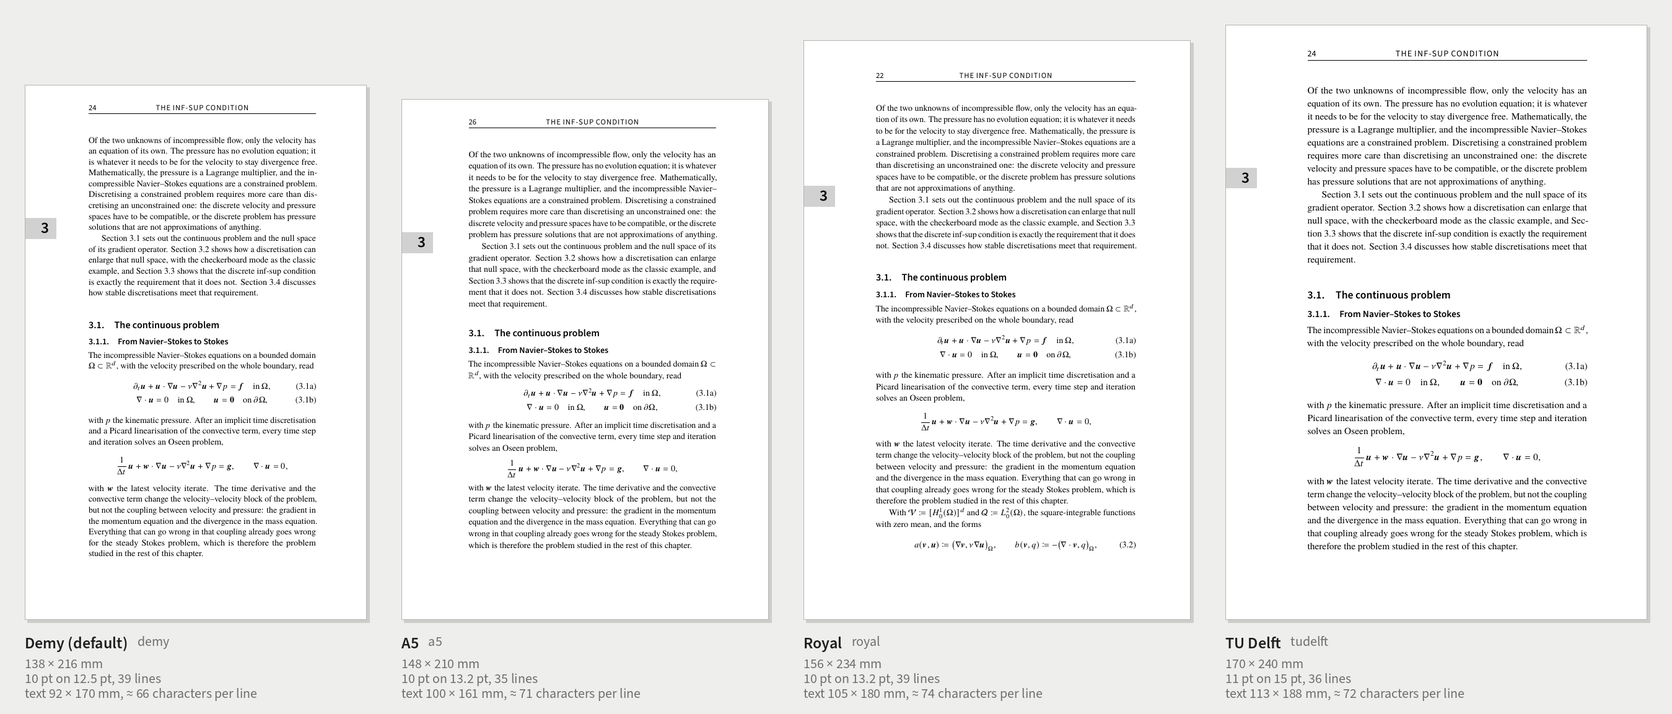
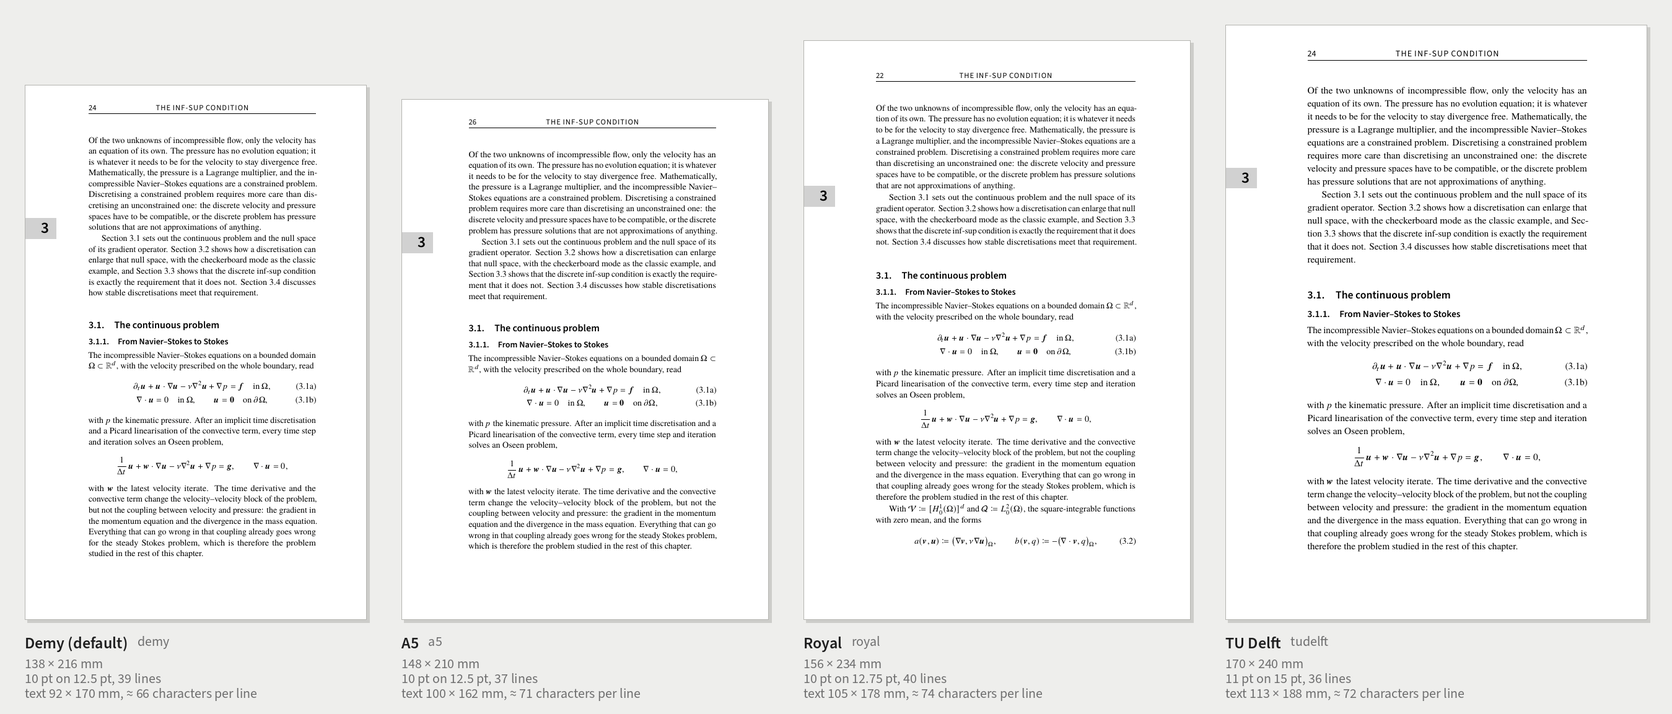
Maths commands: derivative package, growing brackets, sets, operators; A5 and Royal leading
- Derivatives from the derivative package: \odv, \pdv, \mdv (ordinary,
  partial, material), orders and mixed orders, differentials \odif,
  \pdif, \mdif. The compact forms are renamed to match: \codv, \cpdv,
  \cmdv. \deriv, \pderiv, \sderiv, \diff, \pdiff, \sdiff, \cderiv,
  \cpderiv, \csderiv are removed.
- Brackets that grow with their contents (size argument or star, like
  \inner): \norm, \abs, \floor, \ceil, \jump, \avg, \dual, \set,
  \Set{x}{condition}, \restrict{f}{A}.
- \R, \C, \N, \Z; upright \e and \i (\i stays the dotless i in text);
  operators \tr, \diag, \rank, \sgn, \Real, \Imag, \E, \Var, \Cov.
- Example chapters, appendix and the Notation list use the new
  commands; README lists them.
- A5 now 10 on 12.5 pt (37 lines), Royal 10 on 12.75 pt (40 lines);
  page-size image made again, leading shown to the quarter point.

PDF/A-4f and PDF/UA-2 pass (default, digital, MathTime, propositions);
no overfull or underfull boxes.

Claude-Session: https://claude.ai/code/session_01QWSGpSp3w7PDQHFQq44TEs

diff --git a/Chapters/03InfSup.tex b/Chapters/03InfSup.tex
@@ -30,10 +30,10 @@ Of the two unknowns of incompressible flow, only the velocity has an equation of
 
 \subsection{From Navier--Stokes to Stokes}
 
-The incompressible Navier--Stokes equations on a bounded domain $\Omega \subset \mathbb{R}^d$, with the velocity prescribed on the whole boundary, read
+The incompressible Navier--Stokes equations on a bounded domain $\Omega \subset \R^d$, with the velocity prescribed on the whole boundary, read
 \begin{subequations}\label{eq:infsup-ns}
 \begin{gather}
-    \cpderiv{\vec{u}}{t} + \vec{u} \cdot \grad\vec{u} - \nu \nabla^2 \vec{u} + \grad p = \vec{f}
+    \cpdv{\vec{u}}{t} + \vec{u} \cdot \grad\vec{u} - \nu \nabla^2 \vec{u} + \grad p = \vec{f}
     \quad \text{in } \Omega , \label{eq:infsup-ns-momentum} \\
     \div\vec{u} = 0 \quad \text{in } \Omega , \qquad \vec{u} = \vec{0} \quad \text{on } \partial\Omega , \label{eq:infsup-ns-mass}
 \end{gather}
@@ -66,7 +66,7 @@ Find $\vec{u} \in \mathcal{V}$ and $p \in \mathcal{Q}$ such that
 
 The form $b$ defines two operators that are each other's adjoints: the divergence $B \colon \mathcal{V} \to \mathcal{Q}'$ and the gradient $B' \colon \mathcal{Q} \to \mathcal{V}'$, through
 \begin{equation*}
-    \langle B\vec{v}, q \rangle = b(\vec{v}, q) = \langle B' q, \vec{v} \rangle
+    \dual{B\vec{v}}{q} = b(\vec{v}, q) = \dual{B' q}{\vec{v}}
     \qquad \forall\, \vec{v} \in \mathcal{V} ,\ q \in \mathcal{Q} .
 \end{equation*}
 The null space of $B$ is the space of divergence-free velocities, where the solution lives. The null space of $B'$ contains the pressures that \cref{eq:infsup-stokes-momentum} cannot see: adding such a pressure to a solution gives another solution. On $L^2(\Omega)$, these are the pressures with a vanishing gradient,
@@ -81,11 +81,11 @@ Injectivity alone is not enough in infinite dimensions; the gradient also has to
 There is a constant $\beta > 0$, depending only on $\Omega$, such that
 \begin{equation}\label{eq:infsup-continuous}
     \inf_{q \in \mathcal{Q} \setminus \{0\}} \ \sup_{\vec{v} \in \mathcal{V} \setminus \{\vec{0}\}}
-    \frac{b(\vec{v}, q)}{\lVert \grad\vec{v} \rVert_\Omega \, \lVert q \rVert_\Omega} \geq \beta .
+    \frac{b(\vec{v}, q)}{\norm{\grad\vec{v}}_\Omega \, \norm{q}_\Omega} \geq \beta .
 \end{equation}
 \end{theorem}
 
-Equivalently, the divergence maps $\mathcal{V}$ onto $L^2_0(\Omega)$: every zero-mean function is the divergence of a velocity field that vanishes on the boundary, with a bounded norm. Together with the coercivity of $a$, $a(\vec{v}, \vec{v}) = \nu \lVert \grad\vec{v} \rVert_\Omega^2$, \cref{eq:infsup-continuous} gives existence, uniqueness and stability of the solution of \cref{form:infsup-stokes}: this is the theory of saddle-point problems of \textcite{Babuska1973} and \textcite{Brezzi1974}, set out in full by \textcite{Boffi2013}.
+Equivalently, the divergence maps $\mathcal{V}$ onto $L^2_0(\Omega)$: every zero-mean function is the divergence of a velocity field that vanishes on the boundary, with a bounded norm. Together with the coercivity of $a$, $a(\vec{v}, \vec{v}) = \nu \norm{\grad\vec{v}}_\Omega^2$, \cref{eq:infsup-continuous} gives existence, uniqueness and stability of the solution of \cref{form:infsup-stokes}: this is the theory of saddle-point problems of \textcite{Babuska1973} and \textcite{Brezzi1974}, set out in full by \textcite{Boffi2013}.
 
 %% =====================================================================
 \section{Discretisation enlarges the null space}\label{sec:infsup-discrete}
@@ -115,7 +115,7 @@ $\{ \text{constants} \} \cap \mathcal{Q}^h \subseteq \mathcal{N}^h$.
 If $q^h \in \mathcal{Q}^h$ is constant, then $b(\vec{v}, q^h) = 0$ for all $\vec{v} \in \mathcal{V}$, by \cref{eq:infsup-kernel-continuous}, and in particular for all $\vec{v}^h \in \mathcal{V}^h \subset \mathcal{V}$.
 \end{proof}
 
-The inclusion is in general strict. A pressure $q^\ast \in \mathcal{N}^h$ that is not constant is a \emph{spurious pressure mode}: it is not in the null space of the continuous gradient, but the discrete gradient maps it to zero. If $(\vec{u}^h, p^h)$ solves the discrete problem, so does $(\vec{u}^h, p^h + c\, q^\ast)$ for every $c \in \mathbb{R}$. The matrix in \cref{eq:infsup-matrix} is singular, the pressure is not determined, and an iterative solver returns a pressure polluted by an arbitrary multiple of $q^\ast$. The velocity is not affected, as $q^\ast$ does not enter the momentum equation, which is why such discretisations produce, in the words of \textcite{Sani1981}, spurious pressures together with ostensibly acceptable velocities.
+The inclusion is in general strict. A pressure $q^\ast \in \mathcal{N}^h$ that is not constant is a \emph{spurious pressure mode}: it is not in the null space of the continuous gradient, but the discrete gradient maps it to zero. If $(\vec{u}^h, p^h)$ solves the discrete problem, so does $(\vec{u}^h, p^h + c\, q^\ast)$ for every $c \in \R$. The matrix in \cref{eq:infsup-matrix} is singular, the pressure is not determined, and an iterative solver returns a pressure polluted by an arbitrary multiple of $q^\ast$. The velocity is not affected, as $q^\ast$ does not enter the momentum equation, which is why such discretisations produce, in the words of \textcite{Sani1981}, spurious pressures together with ostensibly acceptable velocities.
 
 \subsection{The checkerboard mode}\label{sec:infsup-checkerboard}
 
@@ -166,7 +166,7 @@ The discrete counterpart of \cref{eq:infsup-continuous} is
 \begin{equation}\label{eq:infsup-discrete}
     \beta_h \coloneqq
     \inf_{q^h \in \mathcal{Q}^h_0 \setminus \{0\}} \ \sup_{\vec{v}^h \in \mathcal{V}^h \setminus \{\vec{0}\}}
-    \frac{b(\vec{v}^h, q^h)}{\lVert \grad\vec{v}^h \rVert_\Omega \, \lVert q^h \rVert_\Omega} ,
+    \frac{b(\vec{v}^h, q^h)}{\norm{\grad\vec{v}^h}_\Omega \, \norm{q^h}_\Omega} ,
 \end{equation}
 with $\mathcal{Q}^h_0 \coloneqq \mathcal{Q}^h \cap L^2_0(\Omega)$: the discrete pressures with the continuous null space removed, exactly as $\mathcal{Q} = L^2_0(\Omega)$ removes it from the continuous problem.
 
@@ -183,9 +183,9 @@ On a fixed mesh, then, the inf-sup condition says no more than that the discreti
 For a sequence of meshes the requirement is stronger, because $\beta_h$ enters the error estimate. If $\beta_h \geq \beta_0 > 0$ for all $h$, the discrete solution is quasi-optimal,
 \begin{equation}\label{eq:infsup-error}
 \begin{split}
-    \lVert \grad(\vec{u} - \vec{u}^h) \rVert_\Omega &+ \lVert p - p^h \rVert_\Omega \\
-    &\leq C(\beta_0) \Bigl( \inf_{\vec{v}^h \in \mathcal{V}^h} \lVert \grad(\vec{u} - \vec{v}^h) \rVert_\Omega \\
-    &\qquad\qquad + \inf_{q^h \in \mathcal{Q}^h_0} \lVert p - q^h \rVert_\Omega \Bigr) ,
+    \norm{\grad(\vec{u} - \vec{u}^h)}_\Omega &+ \norm{p - p^h}_\Omega \\
+    &\leq C(\beta_0) \Bigl( \inf_{\vec{v}^h \in \mathcal{V}^h} \norm{\grad(\vec{u} - \vec{v}^h)}_\Omega \\
+    &\qquad\qquad + \inf_{q^h \in \mathcal{Q}^h_0} \norm{p - q^h}_\Omega \Bigr) ,
 \end{split}
 \end{equation}
 with a constant that grows as $\beta_0$ decreases \parencite{Brezzi1974,Boffi2013}. A discretisation whose null space is correct on every mesh but with $\beta_h \to 0$ has pressures that come ever closer to the null space: modes the velocity space can detect only faintly, which are amplified in the pressure solution. The $Q_1$--$P_0$ element is the standard example once more: with the checkerboard filtered out, $\beta_h > 0$ on every mesh, but $\beta_h$ decreases in proportion to $h$.
@@ -194,7 +194,7 @@ with a constant that grows as $\beta_0$ decreases \parencite{Brezzi1974,Boffi201
 The condition is therefore twofold. The discrete null space must coincide with the continuous one on every mesh, and it must do so robustly: no family of discrete pressures may approach the null space as the mesh is refined.
 \end{remark}
 
-In matrix form, with $\mathsf{A}_1$ the matrix of $\inner{\grad\vec{v}^h}{\grad\vec{u}^h}_\Omega$ and $\mathsf{M}$ the pressure mass matrix, the supremum over the velocities can be evaluated, $\sup_{\mathsf{v}} \mathsf{q}\transpose\mathsf{B}\mathsf{v} / \lVert \mathsf{v} \rVert_{\mathsf{A}_1} = \lVert \mathsf{A}_1^{-1/2} \mathsf{B}\transpose \mathsf{q} \rVert$. So $\beta_h^2$ is the smallest eigenvalue $\lambda$ of the generalised eigenvalue problem
+In matrix form, with $\mathsf{A}_1$ the matrix of $\inner{\grad\vec{v}^h}{\grad\vec{u}^h}_\Omega$ and $\mathsf{M}$ the pressure mass matrix, the supremum over the velocities can be evaluated, $\sup_{\mathsf{v}} \mathsf{q}\transpose\mathsf{B}\mathsf{v} / \norm{\mathsf{v}}_{\mathsf{A}_1} = \norm{\mathsf{A}_1^{-1/2} \mathsf{B}\transpose \mathsf{q}}$. So $\beta_h^2$ is the smallest eigenvalue $\lambda$ of the generalised eigenvalue problem
 \begin{equation}\label{eq:infsup-eigen}
     \mathsf{B} \mathsf{A}_1^{-1} \mathsf{B}\transpose \mathsf{q} = \lambda\, \mathsf{M} \mathsf{q}
 \end{equation}
@@ -227,7 +227,7 @@ The practical tool for proving \cref{eq:infsup-discrete} uniformly is a Fortin o
 \begin{theorem}[Fortin criterion]\label{thm:infsup-fortin}
 Let $\Pi_h \colon \mathcal{V} \to \mathcal{V}^h$ be an operator such that, for all $\vec{v} \in \mathcal{V}$ and $q^h \in \mathcal{Q}^h$,
 \[
-    b(\vec{v} - \Pi_h\vec{v}, q^h) = 0, \qquad \lVert \grad \Pi_h\vec{v} \rVert_\Omega \leq C_\Pi \lVert \grad\vec{v} \rVert_\Omega,
+    b(\vec{v} - \Pi_h\vec{v}, q^h) = 0, \qquad \norm{\grad \Pi_h\vec{v}}_\Omega \leq C_\Pi \norm{\grad\vec{v}}_\Omega,
 \]
 with $C_\Pi$ independent of $h$. Then $\beta_h \geq \beta / C_\Pi$.
 \end{theorem}
@@ -235,13 +235,13 @@ with $C_\Pi$ independent of $h$. Then $\beta_h \geq \beta / C_\Pi$.
 \begin{proof}
 Let $q^h \in \mathcal{Q}^h_0 \subset \mathcal{Q}$. For every $\vec{v} \in \mathcal{V}$ with $b(\vec{v}, q^h) > 0$, also $\Pi_h\vec{v} \neq \vec{0}$, and
 \begin{equation*}
-    \frac{b(\Pi_h\vec{v}, q^h)}{\lVert \grad \Pi_h\vec{v} \rVert_\Omega}
-    \geq \frac{b(\vec{v}, q^h)}{C_\Pi \lVert \grad\vec{v} \rVert_\Omega} ;
+    \frac{b(\Pi_h\vec{v}, q^h)}{\norm{\grad \Pi_h\vec{v}}_\Omega}
+    \geq \frac{b(\vec{v}, q^h)}{C_\Pi \norm{\grad\vec{v}}_\Omega} ;
 \end{equation*}
 the other velocities do not contribute to the supremum in \cref{eq:infsup-continuous}. Taking the supremum over $\vec{v}$ and using \cref{eq:infsup-continuous} gives
 \begin{equation*}
-    \sup_{\vec{v}^h \in \mathcal{V}^h \setminus \{\vec{0}\}} \frac{b(\vec{v}^h, q^h)}{\lVert \grad\vec{v}^h \rVert_\Omega}
-    \geq \frac{\beta}{C_\Pi} \lVert q^h \rVert_\Omega . \qedhere
+    \sup_{\vec{v}^h \in \mathcal{V}^h \setminus \{\vec{0}\}} \frac{b(\vec{v}^h, q^h)}{\norm{\grad\vec{v}^h}_\Omega}
+    \geq \frac{\beta}{C_\Pi} \norm{q^h}_\Omega . \qedhere
 \end{equation*}
 \end{proof}
 
@@ -273,7 +273,7 @@ A Fortin operator is easiest to find when the discretisation is built so that th
     b(\vec{v} - \Pi_h\vec{v}, q^h) = -\inner[\big]{\div\vec{v} - \pi_h \div\vec{v}}{q^h}_\Omega = 0
     \qquad \forall\, q^h \in \mathcal{Q}^h ,
 \end{equation*}
-by the definition of the $L^2$ projection, so a bounded commuting projection is a Fortin operator. The discrete divergence then inherits the range of the continuous one, and the discrete gradient its null space: nothing beyond the constants. This is the structure of the de Rham complex, which finite element exterior calculus \parencite{Arnold2006} and mimetic methods carry over to the discrete level. It brings a second benefit: as $\div\vec{u}^h \in \mathcal{Q}^h$, choosing $q^h = \div\vec{u}^h$ in the discrete mass equation gives $\lVert \div\vec{u}^h \rVert_\Omega = 0$, a velocity that is divergence free pointwise, not only in a weak sense. The mixed mimetic spectral element method of \textcite{Kreeft2013} obtains this for Stokes flow in a vorticity--velocity--pressure formulation, whose three unknowns fit the spaces of the complex directly.
+by the definition of the $L^2$ projection, so a bounded commuting projection is a Fortin operator. The discrete divergence then inherits the range of the continuous one, and the discrete gradient its null space: nothing beyond the constants. This is the structure of the de Rham complex, which finite element exterior calculus \parencite{Arnold2006} and mimetic methods carry over to the discrete level. It brings a second benefit: as $\div\vec{u}^h \in \mathcal{Q}^h$, choosing $q^h = \div\vec{u}^h$ in the discrete mass equation gives $\norm{\div\vec{u}^h}_\Omega = 0$, a velocity that is divergence free pointwise, not only in a weak sense. The mixed mimetic spectral element method of \textcite{Kreeft2013} obtains this for Stokes flow in a vorticity--velocity--pressure formulation, whose three unknowns fit the spaces of the complex directly.
 
 \subsection{Stabilisation}
 

diff --git a/Chapters/02Examples.tex b/Chapters/02Examples.tex
@@ -70,24 +70,25 @@ Citations use numbered references~\cite{Allen2002}, several at once~\cite{Sinnig
 Inline maths such as $\Re = \rho U L / \mu$ uses the same Times letters as the text. Vectors and tensors are set in bold, as in the velocity $\vec{u}$ and the stress tensor $\tensor{\tau}$; writing them with \verb|\vec| and \verb|\tensor| lets you change that notation everywhere with a single change. For an incompressible flow, mass and momentum conservation read
 \begin{align}
     \div \vec{u} &= 0, \label{eq:continuity} \\
-    \sderiv{\vec{u}}{t} &= -\frac{1}{\rho} \grad p + \nu \nabla^2 \vec{u}, \label{eq:navier-stokes}
+    \mdv{\vec{u}}{t} &= -\frac{1}{\rho} \grad p + \nu \nabla^2 \vec{u}, \label{eq:navier-stokes}
 \end{align}
 where the material derivative is
 \begin{equation}
-    \sderiv{\vec{u}}{t} = \pderiv{\vec{u}}{t} + \left( \vec{u} \cdot \grad \right) \vec{u}.
+    \mdv{\vec{u}}{t} = \pdv{\vec{u}}{t} + \left( \vec{u} \cdot \grad \right) \vec{u}.
 \end{equation}
 
 A derivation over several lines numbers only its result:
 \begin{align}
-    \oint_{\Gamma} \vec{u} \cdot \diff{\vec{l}}
-        &= \iint_{S} \left( \curl \vec{u} \right) \cdot \vec{n} \, \diff{S} \notag \\
-        &= \iint_{S} \vec{\omega} \cdot \vec{n} \, \diff{S}. \label{eq:circulation}
+    \oint_{\Gamma} \vec{u} \cdot \odif{\vec{l}}
+        &= \iint_{S} \left( \curl \vec{u} \right) \cdot \vec{n} \odif{S} \notag \\
+        &= \iint_{S} \vec{\omega} \cdot \vec{n} \odif{S}. \label{eq:circulation}
 \end{align}
 
-Derivatives of any order, and their compact forms:
-\begin{equation*}
-    \deriv{y}{x}, \quad \deriv[2]{y}{x}, \quad \pderiv[2]{\phi}{x}, \quad \cpderiv{\phi}{x}, \quad \vec{A}\transpose \vec{B}, \quad \tensor{\sigma} \cddot \tensor{\varepsilon}.
-\end{equation*}
+Derivatives of any order, mixed and compact, and brackets that grow with their contents (\verb|\norm*|, \verb|\abs*|, \verb|\Set*|; or a fixed size, \verb|\norm[\big]|):
+\begin{gather*}
+    \odv{y}{x}, \quad \odv[2]{y}{x}, \quad \pdv[order={2,1}]{\phi}{x,y}, \quad \cpdv{\phi}{x}, \quad \vec{A}\transpose \vec{B}, \quad \tensor{\sigma} \cddot \tensor{\varepsilon}, \\
+    \norm*{\frac{\vec{u}}{U}}_2, \quad \abs{z} = \abs{\e^{\i\omega t}} = 1, \quad \Set*{\vec{x} \in \R^3}{\norm{\vec{x}} \leq \frac{1}{2}}, \quad \tr \tensor{\tau} = 0.
+\end{gather*}
 
 Piecewise definitions, matrices and operators:
 \begin{gather}
@@ -101,7 +102,7 @@ Piecewise definitions, matrices and operators:
         \cos\theta & -\sin\theta \\
         \sin\theta & \cos\theta
     \end{bmatrix}, \\
-    \hat{\vec{x}} = \argmin_{\vec{x}} \, \lVert \tensor{A} \vec{x} - \vec{b} \rVert_2^2 .
+    \hat{\vec{x}} = \argmin_{\vec{x}} \, \norm{\tensor{A} \vec{x} - \vec{b}}_2^2 .
 \end{gather}
 Dimensionless numbers are upright: $\Re$, $\Ma$, $\Pr$, $\St$ and $\Fr$.
 
@@ -144,8 +145,8 @@ Braces can mark parts of a matrix, and matrices can be given the same column wid
 
 On a narrow page, an equation that would fit on A4 often does not. Break it at an operator, and say where it continues. A single long expression is set with \texttt{multline}: the first line starts at the left, the last line ends at the right.
 \begin{multline}
-    \rho \left( \pderiv{u}{t} + u \pderiv{u}{x} + v \pderiv{u}{y} + w \pderiv{u}{z} \right) \\
-    = -\pderiv{p}{x} + \mu \left( \pderiv[2]{u}{x} + \pderiv[2]{u}{y} + \pderiv[2]{u}{z} \right) + \rho g_x
+    \rho \left( \pdv{u}{t} + u \pdv{u}{x} + v \pdv{u}{y} + w \pdv{u}{z} \right) \\
+    = -\pdv{p}{x} + \mu \left( \pdv[2]{u}{x} + \pdv[2]{u}{y} + \pdv[2]{u}{z} \right) + \rho g_x
     \label{eq:x-momentum}
 \end{multline}
 When the continuation should line up with an equals sign, \texttt{split} inside an equation gives one number for the whole:
@@ -158,13 +159,13 @@ When the continuation should line up with an equals sign, \texttt{split} inside 
 \end{equation}
 Break before an operator ($+$, $-$, $=$), not after it, so the new line shows at once that it continues the previous one.
 
-A weak form, as in a finite element method, consists of many inner products. Write them compactly: $\inner{\cdot}{\cdot}_D$ for the $L^2$ inner product over a domain $D$, with the domain as subscript, and time derivatives as $\cpderiv{\vec{u}^h}{t}$ rather than a fraction. Give the parts of the boundary short names, so the subscripts stay one level deep. A \texttt{formulation} environment sets the statement apart, as in \cref{form:burgers}; \texttt{subequations} numbers its equations (\ref{eq:fem-momentum})--(\ref{eq:fem-wall}) and lets the set be referred to as a whole, \cref{eq:fem}.
+A weak form, as in a finite element method, consists of many inner products. Write them compactly: $\inner{\cdot}{\cdot}_D$ for the $L^2$ inner product over a domain $D$, with the domain as subscript, and time derivatives as $\cpdv{\vec{u}^h}{t}$ rather than a fraction. Give the parts of the boundary short names, so the subscripts stay one level deep. A \texttt{formulation} environment sets the statement apart, as in \cref{form:burgers}; \texttt{subequations} numbers its equations (\ref{eq:fem-momentum})--(\ref{eq:fem-wall}) and lets the set be referred to as a whole, \cref{eq:fem}.
 
 \begin{formulation}[Weak form of the viscous Burgers equation]\label{form:burgers}
 Let the boundary consist of an inflow part and a wall, $\partial\Omega = \Gamma_\mathrm{in} \cup \Gamma_\mathrm{wall}$. Find $\vec{u}^h \in \mathcal{V}^h(\Omega)$ for $0 < t \leq T$, given an initial condition $\vec{u}_0$, such that for all $\vec{v} \in \mathcal{W}^h(\Omega)$, $\vec{\sigma} \in \mathcal{W}^h(\Gamma_\mathrm{in})$ and $\vec{\zeta} \in \mathcal{W}^h(\Gamma_\mathrm{wall})$:
 \begin{subequations}\label{eq:fem}
 \begin{gather}
-    \inner[\big]{\vec{v}}{\cpderiv{\vec{u}^h}{t}}_\Omega
+    \inner[\big]{\vec{v}}{\cpdv{\vec{u}^h}{t}}_\Omega
     + \inner[\big]{\vec{v}}{\vec{u}^h \cdot \grad\vec{u}^h}_\Omega
     + \inner[\big]{\grad\vec{v}}{\nu \grad\vec{u}^h}_\Omega
     = \inner[\big]{\vec{v}}{\vec{f}}_\Omega ,                                 \label{eq:fem-momentum} \\
@@ -186,7 +187,7 @@ When the same terms come back in later chapters, name them once, keeping the tes
 \end{equation*}
 so that \cref{eq:fem-momentum} becomes
 \begin{equation*}
-    \inner[\big]{\vec{v}}{\cpderiv{\vec{u}^h}{t}}_\Omega + c(\vec{u}^h; \vec{v}, \vec{u}^h) + a(\vec{v}, \vec{u}^h) = \inner[\big]{\vec{v}}{\vec{f}}_\Omega .
+    \inner[\big]{\vec{v}}{\cpdv{\vec{u}^h}{t}}_\Omega + c(\vec{u}^h; \vec{v}, \vec{u}^h) + a(\vec{v}, \vec{u}^h) = \inner[\big]{\vec{v}}{\vec{f}}_\Omega .
 \end{equation*}
 The diffusive form $a$ is bilinear; the convective form $c$ is linear in $\vec{v}$ and $\vec{u}$ but depends on the velocity $\vec{w}$ as well, which is why it is written with a semicolon.
 
@@ -195,22 +196,22 @@ The diffusive form $a$ is bilinear; the convective form $c$ is linear in $\vec{v
 Definitions, lemmas, theorems and corollaries share one counter, so \cref{def:energy-norm} is followed by \cref{lem:coercivity}; a remark is unnumbered. All are set upright, which reads better than the usual italics when a statement is mostly maths.
 
 \begin{definition}[Energy norm]\label{def:energy-norm}
-For $\nu > 0$, the energy norm on $\mathcal{W}^h(\Omega)$ is $\lVert \vec{v} \rVert_a \coloneqq a(\vec{v}, \vec{v})^{1/2}$.
+For $\nu > 0$, the energy norm on $\mathcal{W}^h(\Omega)$ is $\norm{\vec{v}}_a \coloneqq a(\vec{v}, \vec{v})^{1/2}$.
 \end{definition}
 
 \begin{lemma}[Coercivity]\label{lem:coercivity}
-For constant $\nu > 0$ and all $\vec{v} \in \mathcal{W}^h(\Omega)$, the form is non-negative: $a(\vec{v}, \vec{v}) = \nu \lVert \grad\vec{v} \rVert_\Omega^2 \geq 0$.
+For constant $\nu > 0$ and all $\vec{v} \in \mathcal{W}^h(\Omega)$, the form is non-negative: $a(\vec{v}, \vec{v}) = \nu \norm{\grad\vec{v}}_\Omega^2 \geq 0$.
 \end{lemma}
 
 \begin{proof}
 With $\nu$ constant, it can be taken out of the inner product:
 \begin{equation*}
-    a(\vec{v}, \vec{v}) = \inner[\big]{\grad\vec{v}}{\nu \grad\vec{v}}_\Omega = \nu \inner[\big]{\grad\vec{v}}{\grad\vec{v}}_\Omega = \nu \lVert \grad\vec{v} \rVert_\Omega^2 \geq 0 . \qedhere
+    a(\vec{v}, \vec{v}) = \inner[\big]{\grad\vec{v}}{\nu \grad\vec{v}}_\Omega = \nu \inner[\big]{\grad\vec{v}}{\grad\vec{v}}_\Omega = \nu \norm{\grad\vec{v}}_\Omega^2 \geq 0 . \qedhere
 \end{equation*}
 \end{proof}
 
 \begin{remark}
-For $\vec{v} = \vec{0}$ on the boundary, $c(\vec{w}; \vec{v}, \vec{v}) = -\tfrac{1}{2} \inner{\grad\cdot\vec{w}}{\lvert\vec{v}\rvert^2}_\Omega$, which vanishes only if $\vec{w}$ is divergence free. The velocity of the Burgers equation is not divergence free, so stability analyses use the skew-symmetric form
+For $\vec{v} = \vec{0}$ on the boundary, $c(\vec{w}; \vec{v}, \vec{v}) = -\tfrac{1}{2} \inner{\grad\cdot\vec{w}}{\abs{\vec{v}}^2}_\Omega$, which vanishes only if $\vec{w}$ is divergence free. The velocity of the Burgers equation is not divergence free, so stability analyses use the skew-symmetric form
 \begin{equation*}
     \tilde{c}(\vec{w}; \vec{v}, \vec{u}) \coloneqq c(\vec{w}; \vec{v}, \vec{u}) + \tfrac{1}{2} \inner[\big]{\vec{v}}{(\grad\cdot\vec{w})\, \vec{u}}_\Omega ,
 \end{equation*}
@@ -231,7 +232,7 @@ Algorithms are floats like figures, with the caption on top (\cref{alg:picard}).
         \Repeat
             \State assemble $\mathsf{A}(\vec{w})$ and $\mathsf{b}$ from $c(\vec{w}; \cdot, \cdot)$ and $a$
             \State solve $\mathsf{A}(\vec{w})\, \vec{u}^\ast = \mathsf{b}$ \label{alg:picard-solve}
-            \State $\delta \gets \lVert \vec{u}^\ast - \vec{w} \rVert_\Omega$
+            \State $\delta \gets \norm{\vec{u}^\ast - \vec{w}}_\Omega$
             \State $\vec{w} \gets \vec{u}^\ast$
         \Until{$\delta < \varepsilon$}
         \State \Return $\vec{u}^{n+1} \gets \vec{w}$
@@ -389,7 +390,7 @@ A convergence study is a table of errors against mesh size, with the observed or
     \label{tab:convergence}
     \begin{tabular}{@{}S[table-format=3.0] S[table-format=1.2e-1] S[table-format=1.2] S[table-format=1.2e-1] S[table-format=1.2]@{}}
         \toprule
-        {$N$} & {$\lVert \vec{e} \rVert_\Omega$} & {Order} & {$\lVert \grad\vec{e} \rVert_\Omega$} & {Order} \\
+        {$N$} & {$\norm{\vec{e}}_\Omega$} & {Order} & {$\norm{\grad\vec{e}}_\Omega$} & {Order} \\
         \midrule
           8   & 3.41e-3 & {--} & 1.08e-1 & {--} \\
          16   & 8.80e-4 & 1.96 & 5.46e-2 & 0.99 \\

diff --git a/_options/commands.tex b/_options/commands.tex
@@ -1,17 +1,16 @@
 %% Commands for writing: maths notation, lists, file names, chapter notes. Add your own here.
 
-\newcommand\diff[2][]{\mathrm{d}^{#1}{#2}}      % creates a nth-order ordinary differential variable
-\newcommand\pdiff[2][]{\partial^{#1}{#2}}       % creates a nth-order partial differential variable
-\newcommand\sdiff[2][]{\mathrm{D}^{#1}{#2}}     % creates a nth-order substantial differential variable
-\newcommand\deriv[3][]{\frac{\diff[#1]{#2}}{\diff{#3}^{#1}}}     % nth-order ordinary derivative
-\newcommand\pderiv[3][]{\frac{\pdiff[#1]{#2}}{\pdiff{#3}^{#1}}}  % nth-order partial derivative
-\newcommand\sderiv[3][]{\frac{\sdiff[#1]{#2}}{\sdiff{#3}^{#1}}}  % nth-order material derivative
-%% Compact derivatives: \cpderiv{u}{t} gives \partial_t u, \cpderiv[2]{u}{x} gives \partial^2_x u (scripts stacked).
+%% Derivatives and differentials with the derivative package (loaded in packages.tex), upright d and D:
+%%   \odv{y}{x}            dy/dx              \odv[order=2]{y}{x}     d^2y/dx^2 (also \odv[2]{y}{x})
+%%   \pdv{u}{t}            partial            \pdv[order={2,1}]{u}{x,y}  mixed: d^3u/dx^2 dy
+%%   \mdv{\vec{u}}{t}      material: Du/Dt    \odv*{}{x} f            the function after the fraction
+%%   \odif{x}  \pdif{x}  \mdif{x}             the differentials dx, partial x, Dx, as in an integral
+%% Compact derivatives, the template's own: \cpdv{u}{t} gives \partial_t u, \cpdv[2]{u}{x} \partial^2_x u.
 %% The scripts attach straight to the d or \partial, so the subscript sits close to it.
 \newcommand\ThesisCompactDeriv[4]{#1\if\relax\detokenize{#2}\relax\else^{#2}\fi_{#4}{#3}}
-\newcommand\cderiv[3][]{\ThesisCompactDeriv{\mathrm{d}}{#1}{#2}{#3}}   % compact ordinary derivative: d_x y
-\newcommand\cpderiv[3][]{\ThesisCompactDeriv{\partial}{#1}{#2}{#3}}  % compact partial derivative: \partial_t u
-\newcommand\csderiv[3][]{\ThesisCompactDeriv{\mathrm{D}}{#1}{#2}{#3}} % compact material derivative: D_t u
+\newcommand\codv[3][]{\ThesisCompactDeriv{\mathrm{d}}{#1}{#2}{#3}}   % compact ordinary derivative: d_x y
+\newcommand\cpdv[3][]{\ThesisCompactDeriv{\partial}{#1}{#2}{#3}}     % compact partial derivative: \partial_t u
+\newcommand\cmdv[3][]{\ThesisCompactDeriv{\mathrm{D}}{#1}{#2}{#3}}   % compact material derivative: D_t u
 
 \newcommand\transpose{^\textsf{T}}              % places in a transpose symbol
 
@@ -60,8 +59,46 @@
 %   \inner{\vec{v}}{\vec{u}}_\Omega            (v, u)_Omega, brackets at normal size (running text)
 %   \inner[\big]{\vec{v}}{\vec{u}}_\Omega      larger brackets: \big, \Big, \bigg, \Bigg (displays)
 %   \inner*{\vec{v}}{\frac{a}{b}}_\Omega       brackets sized to the contents
-% Write time derivatives inside it as \cpderiv{\vec{u}}{t} (gives \partial_t u): shorter than a fraction.
+% Write time derivatives inside it as \cpdv{\vec{u}}{t} (gives \partial_t u): shorter than a fraction.
 \DeclarePairedDelimiterX{\inner}[2]{(}{)}{#1, #2} % chktex 9 (Overleaf's checker misreads the ( and ) arguments)
+
+%% Brackets that grow with their contents, all used like \inner: \norm{x}, \norm[\big]{x}, \norm*{\frac{a}{b}}
+\DeclarePairedDelimiter{\norm}{\lVert}{\rVert}     % norm ||x||; with the space as subscript: \norm{\vec{u}}_{L^2}
+\DeclarePairedDelimiter{\abs}{\lvert}{\rvert}      % absolute value |x|
+\DeclarePairedDelimiter{\floor}{\lfloor}{\rfloor}  % floor
+\DeclarePairedDelimiter{\ceil}{\lceil}{\rceil}     % ceiling
+\DeclarePairedDelimiter{\jump}{\llbracket}{\rrbracket} % jump across a face [[u]] (discontinuous Galerkin)
+\DeclarePairedDelimiterX{\avg}[1]{\{}{\}}{\mkern-4mu\delimsize\{#1\delimsize\}\mkern-4mu} % average {{u}}
+\DeclarePairedDelimiterX{\dual}[2]{\langle}{\rangle}{#1, #2} % duality pairing <f, v>
+\DeclarePairedDelimiter{\set}{\{}{\}}              % set by its elements: \set{1, 2, 3}
+%% Set by a condition, the bar growing with the braces: \Set{x \in \R}{x > 0}, \Set*{\vec{v}}{\norm{\vec{v}} \leq 1}
+\DeclarePairedDelimiterX{\Set}[2]{\{}{\}}{#1 \nonscript\:\delimsize\vert\allowbreak\nonscript\:\mathopen{} #2}
+%% Restriction of a function to a set, f|_A: \restrict{f}{\Gamma}; \restrict[\big]{f}{\Gamma}; \restrict*{...}{\Gamma}
+%% with the bar as tall as the function
+\NewDocumentCommand{\restrict}{s o m m}{%
+    \IfBooleanTF{#1}{\left.#3\right\rvert_{#4}}{\IfNoValueTF{#2}{#3\rvert_{#4}}{#3#2\rvert_{#4}}}}
+
+%% Number sets, the constants e and i, upright as ISO 80000-2 sets them (\i outside maths stays the dotless i)
+\newcommand{\R}{\mathbb{R}}                      % real numbers
+\newcommand{\C}{\mathbb{C}}                      % complex numbers
+\newcommand{\N}{\mathbb{N}}                      % natural numbers
+\newcommand{\Z}{\mathbb{Z}}                      % integers
+\newcommand{\e}{\mathrm{e}}                      % Euler's number: \e^{\i\omega t}
+\makeatletter
+\let\thesis@dotlessi\i
+\DeclareRobustCommand{\i}{\ifmmode\mathrm{i}\else\thesis@dotlessi\fi} % imaginary unit
+\makeatother
+
+%% Operators, upright and spaced like \sin (\Re and \Im are the Reynolds number and free, see above)
+\DeclareMathOperator{\tr}{tr}                     % trace
+\DeclareMathOperator{\diag}{diag}                 % diagonal matrix
+\DeclareMathOperator{\rank}{rank}                 % rank
+\DeclareMathOperator{\sgn}{sgn}                   % sign
+\DeclareMathOperator{\Real}{Re}                   % real part
+\DeclareMathOperator{\Imag}{Im}                   % imaginary part
+\DeclareMathOperator{\E}{\mathbb{E}}              % expectation: \E[X] or \E(X)
+\DeclareMathOperator{\Var}{Var}                   % variance
+\DeclareMathOperator{\Cov}{Cov}                   % covariance
 
 %% Vectors and tensors in bold italics (Latin and Greek alike), so they stand apart from scalars,
 %% e.g. the test function v from the viscosity nu. Change these two lines to switch notation everywhere:

diff --git a/Chapters/A_Appendix.tex b/Chapters/A_Appendix.tex
@@ -13,7 +13,7 @@ Using the vector identity
 \end{equation}
 with the vorticity $\vec{\omega} = \curl \vec{u}$, and taking the curl of the momentum equation, the pressure term vanishes because the curl of a gradient is zero. What remains is
 \begin{equation}
-    \pderiv{\vec{\omega}}{t} - \curl \left( \vec{u} \times \vec{\omega} \right) = \nu \nabla^2 \vec{\omega}.
+    \pdv{\vec{\omega}}{t} - \curl \left( \vec{u} \times \vec{\omega} \right) = \nu \nabla^2 \vec{\omega}.
     \label{eq:vorticity-intermediate}
 \end{equation}
 
@@ -21,7 +21,7 @@ with the vorticity $\vec{\omega} = \curl \vec{u}$, and taking the curl of the mo
 
 For an incompressible flow, $\div \vec{u} = 0$, and $\div \vec{\omega} = 0$ always holds. Expanding the second term of \cref{eq:vorticity-intermediate} then gives the vorticity equation,
 \begin{equation}
-    \sderiv{\vec{\omega}}{t} = \left( \vec{\omega} \cdot \grad \right) \vec{u} + \nu \nabla^2 \vec{\omega},
+    \mdv{\vec{\omega}}{t} = \left( \vec{\omega} \cdot \grad \right) \vec{u} + \nu \nabla^2 \vec{\omega},
     \label{eq:vorticity}
 \end{equation}
 in which the first term on the right-hand side describes vortex stretching and tilting, and the second the diffusion of vorticity by viscosity. \Cref{tab:appendix} summarises the terms.

diff --git a/.github/scripts/page_sizes.py b/.github/scripts/page_sizes.py
@@ -98,7 +98,7 @@ def main():
             panels.append(dict(
                 img=img, label=label, option=size,
                 lines=[f"{round(w_mm)} × {round(h_mm)} mm",
-                       f"{nice(m['size'])} pt on {m['leading']:.1f}".rstrip("0").rstrip(".") + f" pt, {round(m['textheight'] / m['leading'])} lines",
+                       f"{nice(m['size'])} pt on " + f"{round(m['leading'] * 4) / 4:.2f}".rstrip("0").rstrip(".") + f" pt, {round(m['textheight'] / m['leading'])} lines",
                        f"text {round(m['textwidth'] / MM)} × {round(m['textheight'] / MM)} mm, "
                        f"≈ {chars_per_line(pages[page - 1])} characters per line"]))
             print(f"{size}: page {page}, {panels[-1]['lines']}")

diff --git a/_options/packages.tex b/_options/packages.tex
@@ -7,6 +7,7 @@
 %% Maths and units
 \ifthesisotfmath\else\usepackage{bm}\fi % https://ctan.org/pkg/bm %% bold symbols (\vec, \tensor); the OpenType maths fonts have their own \bm (MathTime also \hm, heavy)
 \usepackage{siunitx}            % https://ctan.org/pkg/siunitx %% quantities and units: \qty{}{}, \num{}, \unit{}
+\usepackage{derivative}         % https://ctan.org/pkg/derivative %% derivatives and differentials: \odv{y}{x}, \pdv{u}{t}, \odif{x} (see commands.tex)
 \input{_options/cancel}         % crossing out terms: \cancel{a}, \bcancel, \xcancel, \cancelto{0}{x}
 \input{_options/nicematrix}     % matrices with labels outside, blocks, braces: pNiceMatrix etc.
 

diff --git a/_nomenclature.tex b/_nomenclature.tex
@@ -101,6 +101,8 @@
 \nomnotation{not-lap}{\nabla^2}{Laplacian}
 \nomnotation{not-mat}{\mathrm{D}/\mathrm{D}t}{Material derivative}
 \nomnotation{not-inner}{\inner{\cdot}{\cdot}_D}{$L^2$ inner product over the domain $D$}
-\nomnotation{not-norm}{\lVert \cdot \rVert}{Norm}
+\nomnotation{not-norm}{\norm{\cdot}}{Norm}
+\nomnotation{not-abs}{\abs{\cdot}}{Absolute value}
+\nomnotation{not-dual}{\dual{\cdot}{\cdot}}{Duality pairing}
 \nomnotation{not-T}{(\cdot)\transpose}{Transpose}
 \nomnotation{not-bar}{\overline{(\cdot)}}{Average}

diff --git a/README.md b/README.md
@@ -57,7 +57,7 @@ Set in the first line of `main.tex`, for example:
 
 | Option | Effect |
 |---|---|
-| `demy` *(default)*, `a5`, `royal`, `tudelft` | Book page size, all standard book sizes: 138 × 216 mm (metric demy octavo, close to the classic Dover paperback), 148 × 210 mm (A5), 156 × 234 mm (metric royal octavo) or 170 × 240 mm (TU Delft). Text block, margins and chapter-title size follow automatically. Demy is set in 10 pt type on 12.5 pt leading, A5 and Royal in 10 pt on 13.2 pt; TU Delft in 11 pt on 15 pt, so its wider lines stay at about the same length as the other sizes (75–77 characters). Check that your printer offers the size. |
+| `demy` *(default)*, `a5`, `royal`, `tudelft` | Book page size, all standard book sizes: 138 × 216 mm (metric demy octavo, close to the classic Dover paperback), 148 × 210 mm (A5), 156 × 234 mm (metric royal octavo) or 170 × 240 mm (TU Delft). Text block, margins and chapter-title size follow automatically. Demy and A5 are set in 10 pt type on 12.5 pt leading, Royal in 10 pt on 12.75 pt (its longer lines get a little more space between them), TU Delft in 11 pt on 15 pt, so its wide lines hold about as many characters as Royal's. Check that your printer offers the size. |
 | `digital` *(default)* | For the screen, the TU Delft repository and sharing: the pages at their final size, with links in maroon (set once in `_options/formatColor.tex`; symbols and acronyms stay black, so maths is never coloured), coloured code and sideways pages shown upright. |
 | `print-preparation` | For the professional printer: the pages plus 2 mm bleed on every side (add `showtrims` for crop marks). |
 | `print-showcase` | The printed book as it looks after trimming: the pages at their final size, as on paper. For checking the layout on screen. |
@@ -121,7 +121,10 @@ The print editions are set for paper: links invisible (they still work in the PD
 - **Labels:** one prefix per kind of thing, then a short name that says what it is: `ch:` chapter, `sec:` section or subsection, `app:` appendix, `fig:` figure, `tab:` table, `eq:` equation, `form:` formulation, `alg:` algorithm, `def:` / `lem:` / `thm:` / `cor:` definitions, lemmas, theorems, corollaries. In a long thesis, add the chapter to the name (`fig:wake-velocity`, `sec:burgers-weak-form`) so labels stay unique and readable; never use numbers in labels, as they change.
 - **Citations:** `\cite{key}` for [1], `\citet{key}` for "Author [1]", `\citeauthor{key}`, `\citeyear{key}`.
 - **Units:** `\qty{1.225}{\kilo\gram\per\cubic\metre}`, `\num{6.02e23}`, `\unit{\metre\per\second}` (siunitx).
-- **Custom maths commands** (in `_options/commands.tex`): `\vec{u}` and `\tensor{\tau}` (bold italics by default; switch both to plain italics, arrows or underlines in one place), `\grad`, `\div`, `\curl`, `\deriv{y}{x}`, `\pderiv{y}{x}`, `\sderiv{y}{t}` (material derivative), `\transpose`, `\cddot`, `\inner{v}{u}_\Omega` for $(v,u)_\Omega$, the $L^2$ inner product in weak forms (`\inner[\big]{v}{u}_\Omega` for larger brackets in displays, `\inner*{...}` to fit the contents; write time derivatives inside it as `\cpderiv{u}{t}`, which gives $\partial_t u$), and dimensionless numbers such as `\Re`, `\Ma`, `\Pr`.
+- **Maths commands** (in `_options/commands.tex`): `\vec{u}` and `\tensor{\tau}` (bold italics by default; switch both to plain italics, arrows or underlines in one place), `\grad`, `\div`, `\curl`, `\transpose`, `\cddot`, and dimensionless numbers such as `\Re`, `\Ma`, `\Pr`.
+  - *Derivatives* come from the [derivative](https://ctan.org/pkg/derivative) package: `\odv{y}{x}` (ordinary), `\pdv{u}{t}` (partial), `\mdv{u}{t}` (material, $\mathrm{D}u/\mathrm{D}t$), with the order as `\odv[2]{y}{x}` or mixed as `\pdv[order={2,1}]{u}{x,y}`, and the differentials `\odif{x}`, `\pdif{x}`, `\mdif{x}`. The compact forms `\codv`, `\cpdv`, `\cmdv` are the template's own: `\cpdv{u}{t}` gives $\partial_t u$, `\cpdv[2]{u}{x}` gives $\partial^2_x u$.
+  - *Brackets that grow with their contents*: `\inner{v}{u}_\Omega` for $(v,u)_\Omega$, the $L^2$ inner product in weak forms, `\norm{x}`, `\abs{x}`, `\floor{x}`, `\ceil{x}`, `\jump{u}` and `\avg{u}` (discontinuous Galerkin), `\dual{f}{v}` for $\langle f, v\rangle$, `\set{1,2,3}`, `\Set{x \in \R}{x > 0}` and `\restrict{f}{\Gamma}` for $f|_\Gamma$. Each takes a size, `\norm[\big]{x}` (`\big`, `\Big`, `\bigg`, `\Bigg`, for displays), or a star, `\norm*{...}`, to fit the contents.
+  - *Sets, constants and operators*: `\R`, `\C`, `\N`, `\Z`; `\e` and `\i`, upright as ISO 80000-2 sets them (outside maths `\i` stays the dotless i); `\tr`, `\diag`, `\rank`, `\sgn`, `\Real`, `\Imag` (real and imaginary part: `\Re` is the Reynolds number), `\E`, `\Var`, `\Cov`, `\argmin`, `\argmax`.
 - **File names:** `\file{_nomenclature.tex}` sets a file or package name in typewriter type and lets it break after `.`, `/` or `_`, so it doesn't stick out into the margin on a narrow page.
 - **Formulations:** `\begin{formulation}[optional title]\label{form:...} ... \end{formulation}` sets a weak form, optimisation problem or discrete scheme apart, in upright text with a bold label, "Formulation 2.1", numbered per chapter; refer to it with `\cref{form:...}`. The word is set in `_options/packages.tex`. Name parts of the boundary once ($\Gamma_\mathrm{in}$, $\Gamma_\mathrm{wall}$) rather than nesting subscripts ($\partial\Omega_\mathcal{I}$).
 - **Definitions, lemmas, theorems, proofs:** `definition`, `lemma`, `theorem` and `corollary` share one counter ("Definition 2.1", "Lemma 2.2"), `remark` is unnumbered and `proof` ends with a square (`\qedhere` puts it on the last line of a display). All upright; refer to them with `\cref`.
